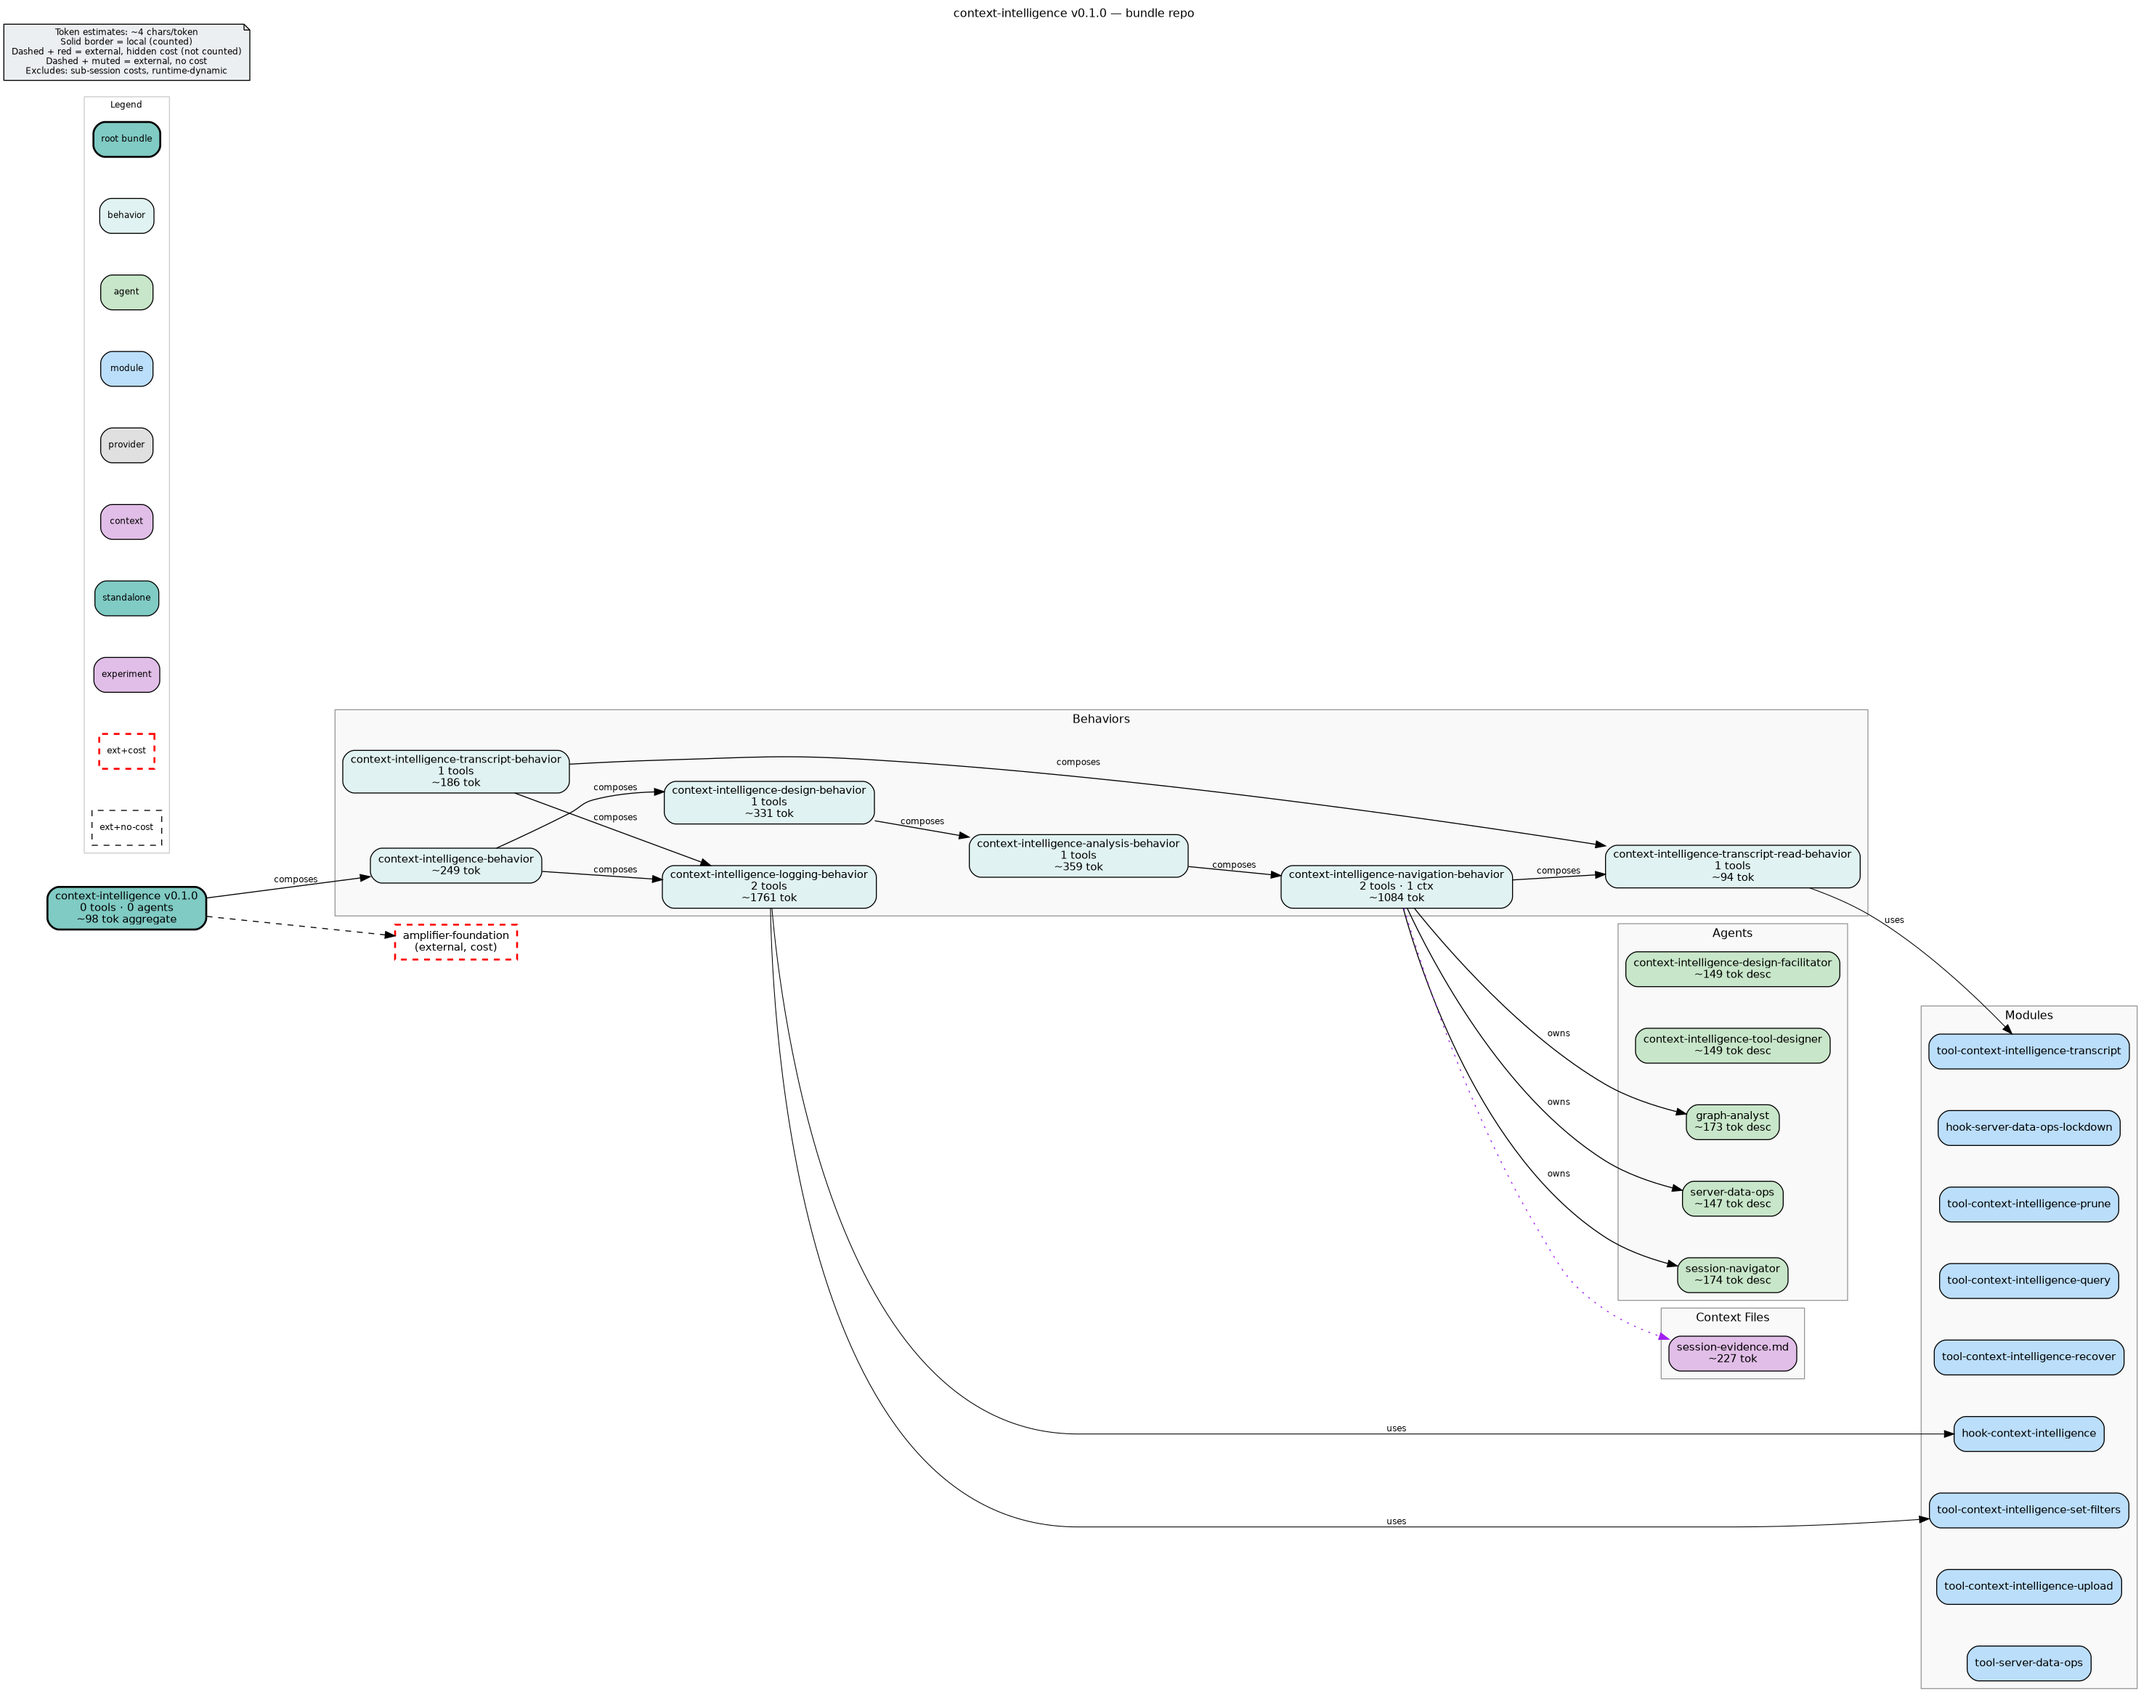
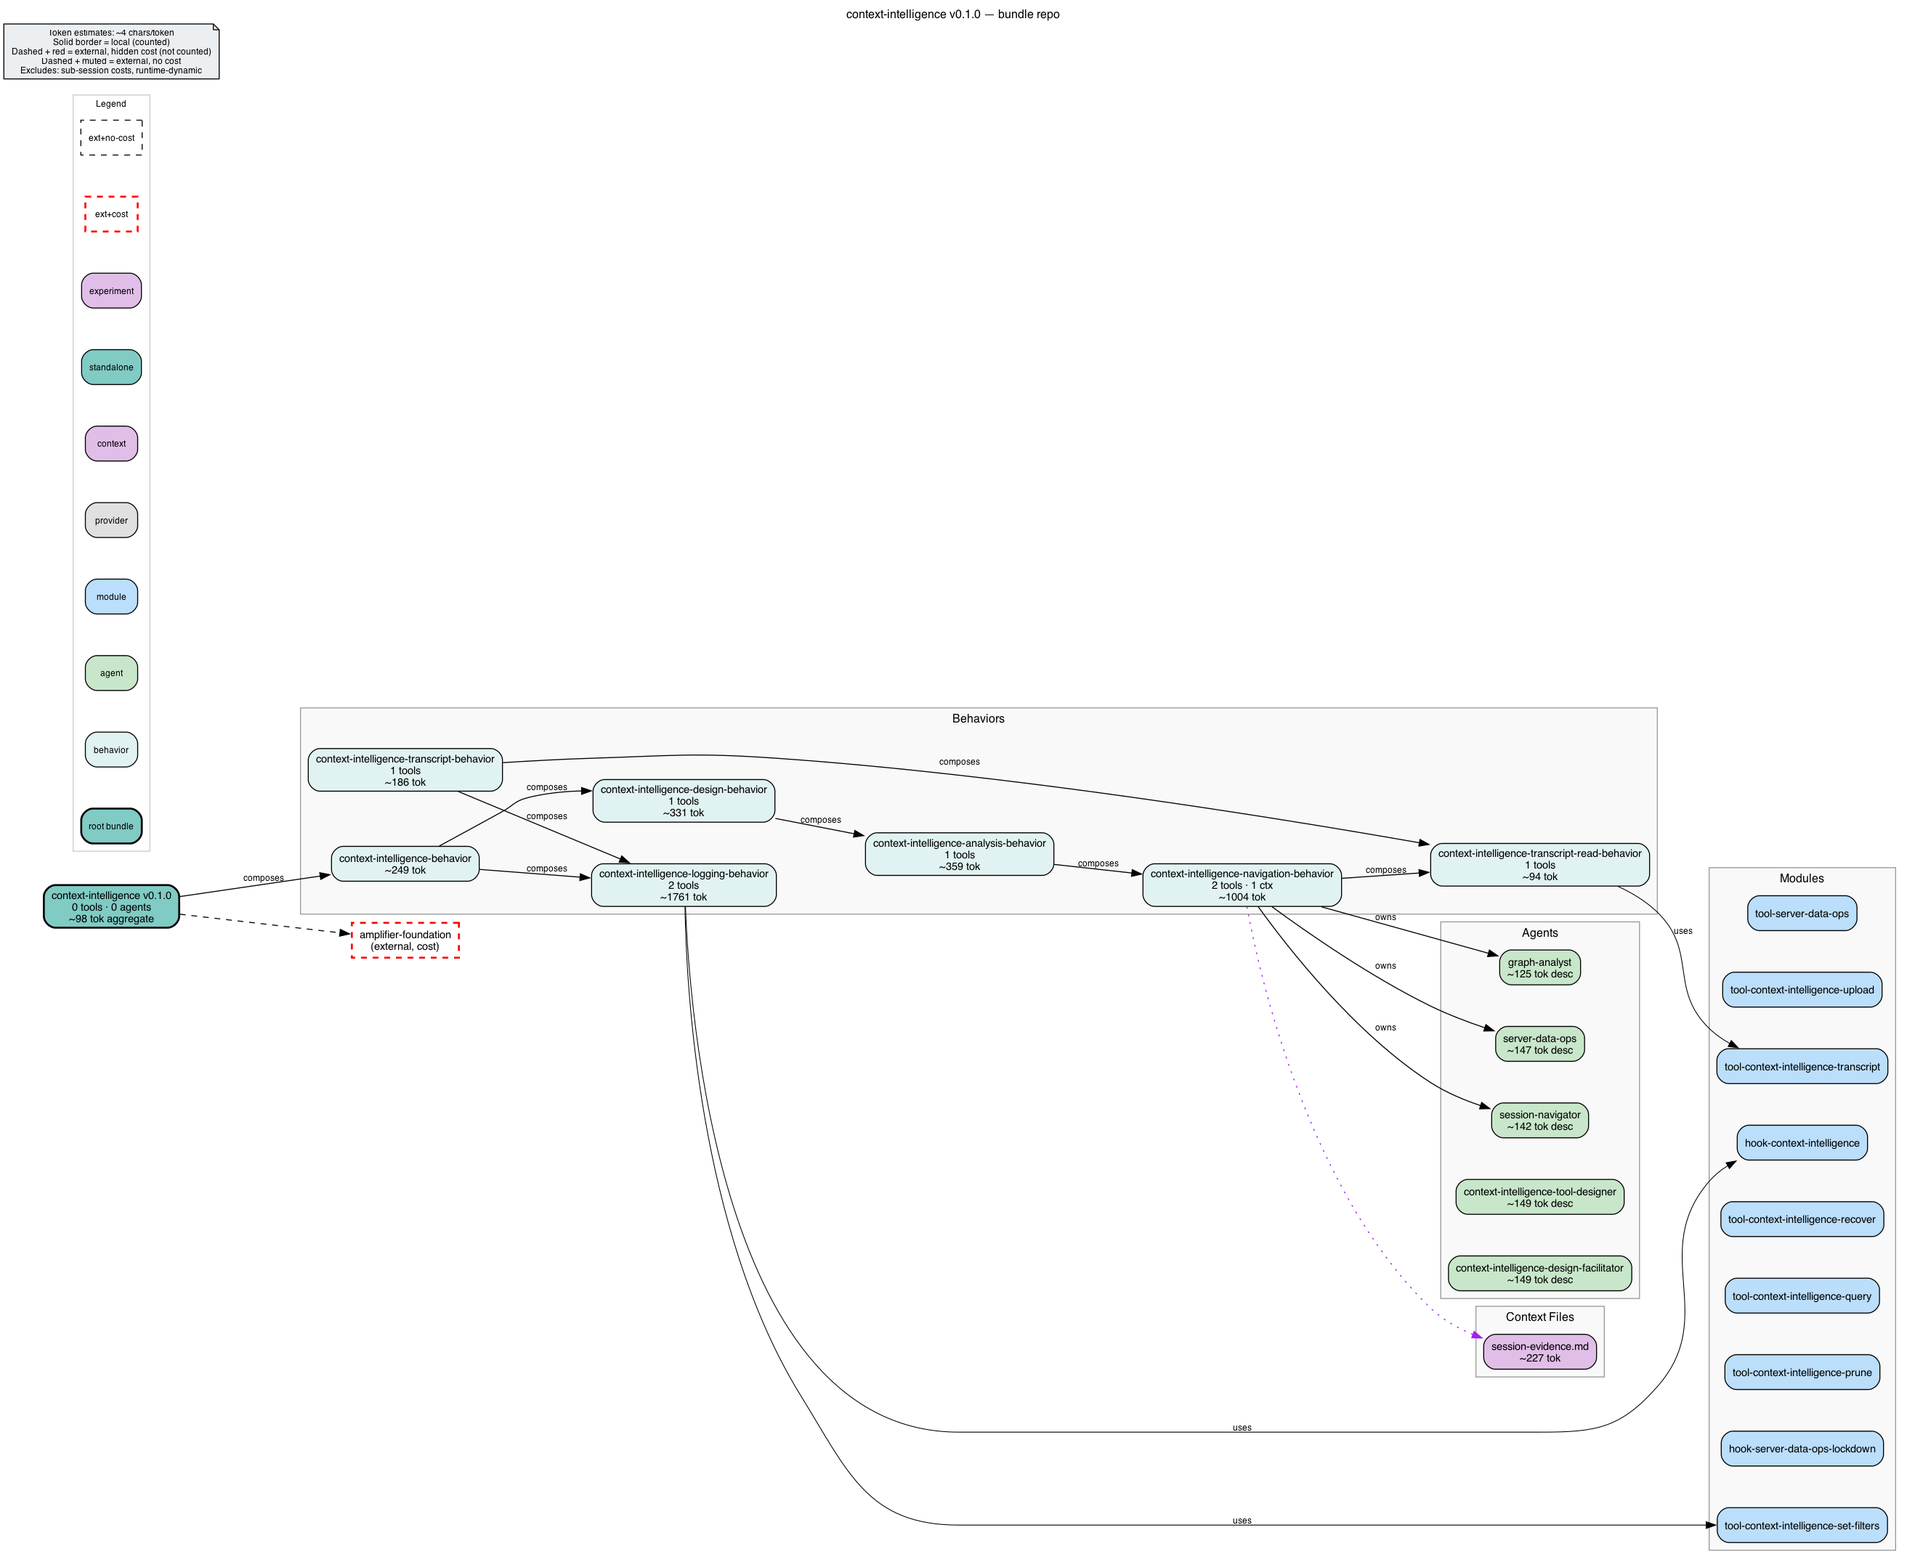
docs(routing): trim always-loaded agent and skill descriptions (6,028 → 3,985 chars) (#155)
* docs(skills): assess concise synopses with baseline routing intact

* docs(routing): budget graph catalogue without changing ownership or admin cues

* docs(routing): retain blob field trigger within synopsis budget

* docs(routing): remove duplicate navigator catalogue triggers

* docs(routing): keep explicit tool-call trigger in navigator synopsis

* docs(bundle): refresh diagrams for compliant trim source

* docs(skills): keep the trigger sentence the skill catalogue shows

Six skill synopses in the trim replaced the baseline's opening
"Use when ..." sentence with a noun-phrase summary. The skills catalogue
shows a model one condensed line per skill, and for these six skills the
baseline line is exactly that opening sentence. In a paired evaluation
(20 trials per arm) the specialist loaded derived-metrics in 19/20
baseline trials and 14/20 trimmed trials.

Restore the baseline opening sentence for those six skills. Their catalogue
lines are now byte-identical to baseline. Bodies and all other frontmatter
are unchanged. Navigation head: 3867 -> 3985 characters.

diff --git a/agents/graph-analyst.md b/agents/graph-analyst.md
@@ -6,11 +6,9 @@ bundle:
 meta:
   name: graph-analyst
   description: |
-    Use for Context Intelligence graph relationships, aggregates, delegation tracing, or ci-blob:// URI resolution. Native conversation uses session_transcript when mounted or session-navigator; local evidence goes to session-navigator without a graph health check. For graph work, check availability; use local fallback only when permitted, available, authorized, and sufficient.
+    Cypher, graph relationships, aggregates, indexed session/delegation tracing, or ci-blob:// field/URI resolution. Native conversation uses session_transcript when mounted or session-navigator; local evidence goes to session-navigator without a graph health check. For graph work, check availability; use local fallback only when permitted, available, authorized, and sufficient.
 
-    USE WHEN: Cypher; graph relationships or aggregates; graph-backed session/delegation traces; ci-blob fields.
-
-    DO NOT USE WHEN: only native conversation or local event, tool, error, or capture evidence is needed — use the matching transcript tool or session-navigator; source-code questions belong with source tools.
+    Not for native conversation or local events/tools/errors/captures (routes above), or source-code questions (source tools).
 
 model_role: [reasoning, general]
 

diff --git a/agents/session-navigator.md b/agents/session-navigator.md
@@ -8,9 +8,9 @@ meta:
   description: |
     Use for native transcript retrieval or workspace-scoped local event, tool, error, or capture questions. It owns local transcript replay and JSONL navigation — session discovery, event search, navigation — with bounded tools and bash/jq/grep extraction that never pulls a 100k+ token events.jsonl line into context. It never mounts or calls graph_query or blob_read.
 
-    USE WHEN: native transcript retrieval; local session discovery, events, tool calls, errors, or capture inspection. Direct callers and graph-analyst may both request this work; no graph health check is needed.
+    Direct callers and graph-analyst may both request this work; no graph health check is needed. Tool calls included.
 
-    DO NOT USE WHEN: graph relationships, aggregates, or ci-blob:// resolution are required — use graph-analyst for those.
+    Not for graph relationships, aggregates, or ci-blob:// resolution — use graph-analyst.
 
 model_role: general
 

diff --git a/skills/context-intelligence-derived-metrics/SKILL.md b/skills/context-intelligence-derived-metrics/SKILL.md
@@ -1,12 +1,6 @@
 ---
 name: context-intelligence-derived-metrics
-description: >
-  Use when a graph query returns structurally-identical rows hiding different
-  intent — many delegations all "none/conversation", look-alike sessions,
-  identical tool calls. Derives an INTERPRETIVE metric by joining a second graph
-  layer onto the blanket shape (flagship: transport × sub-session skill payload =
-  "flavour"). Complements graph-query (READ the graph) by making blanket reads
-  MEAN something.
+description: 'Use when a graph query returns structurally-identical rows hiding different intent — many delegations all "none/conversation", look-alike sessions, identical tool calls.'
 license: MIT
 metadata:
   version: "1.0.0"

diff --git a/skills/context-intelligence-gds/SKILL.md b/skills/context-intelligence-gds/SKILL.md
@@ -1,11 +1,6 @@
 ---
 name: context-intelligence-gds
-description: >
-  Use when about to write naive Cypher for a graph-topology question — pathfinding,
-  reachability, centrality/influence, community/clustering, structural similarity,
-  or similar event paths/trajectories (with/without time) — reach for Neo4j GDS or
-  APOC instead of hand-rolling traversals one hop at a time. WHEN/WHY layer;
-  graph-query's "Push Work to the Database" section is the HOW.
+description: 'GDS/APOC, not naive Cypher: paths/reachability, centrality/influence, community/clusters, structural similarity, (a)temporal trajectories; why; graph-query how.'
 license: MIT
 metadata:
   version: "1.2.0"

diff --git a/skills/context-intelligence-graph-query/SKILL.md b/skills/context-intelligence-graph-query/SKILL.md
@@ -1,11 +1,6 @@
 ---
 name: context-intelligence-graph-query
-description: >
-  Use when querying the context-intelligence property graph for session history,
-  tool call traces, LLM iteration analysis, execution scale metrics, agent
-  delegation trees, skill loading, and recipe orchestration. Covers all graph
-  layers, cross-layer SOURCED_FROM joins, SST navigation, blob handling, and
-  verified Cypher patterns.
+description: 'Query graph session history/tool traces/LLM iterations/execution scale/delegation trees/skill loading/recipe orchestration; layers/SOURCED_FROM/SST/blobs/verified Cypher.'
 license: MIT
 visibility:
   priority: 5

diff --git a/skills/context-intelligence-session-reconstruction/SKILL.md b/skills/context-intelligence-session-reconstruction/SKILL.md
@@ -1,7 +1,7 @@
 ---
 name: context-intelligence-session-reconstruction
 version: 1.1.0
-description: Use when local Amplifier session files are missing, broken, or incomplete — rebuilds events.jsonl, transcript.jsonl, and metadata.json from the context-intelligence graph server.
+description: 'Rebuild absent/broken/incomplete local events.jsonl/transcript.jsonl/metadata.json from graph server.'
 license: MIT
 # Fallback-path skill: reached deliberately, by name, when local session files are
 # already known to be missing or broken — never a candidate the model should pick

diff --git a/skills/context-intelligence-tool-design/SKILL.md b/skills/context-intelligence-tool-design/SKILL.md
@@ -1,7 +1,7 @@
 ---
 name: context-intelligence-tool-design
 version: 1.0.0
-description: Use when selecting a detection strategy and implementation primitive for a context-intelligence signal. Classifies signals as deterministic, probabilistic, llm-evaluated, or hybrid, and applies the cheapest-sufficient-capability principle.
+description: 'Use when selecting a detection strategy and implementation primitive for a context-intelligence signal.'
 user-invocable: false
 allowed-tools: read_file, glob, grep, delegate, load_skill, todo
 model_role: reasoning

diff --git a/skills/workflow-pattern-analysis/SKILL.md b/skills/workflow-pattern-analysis/SKILL.md
@@ -1,11 +1,7 @@
 ---
 name: workflow-pattern-analysis
 version: 1.0.0
-description: >
-  Use when asked how a workflow is failing, what separates a successful run from a failing
-  one, which steps are the most common failure points, or what patterns recur across
-  sessions — analyses failure/success patterns and signals across many runs using
-  context-intelligence session data.
+description: 'Cross-run: why failure, success/failure differences, common failing steps, recurring patterns.'
 user-invocable: true
 allowed-tools:
   - bash

diff --git a/skills/context-intelligence-evaluation-methodology/SKILL.md b/skills/context-intelligence-evaluation-methodology/SKILL.md
@@ -1,7 +1,7 @@
 ---
 name: context-intelligence-evaluation-methodology
 version: 1.0.0
-description: Use when deciding how to measure a context-intelligence tool signal. Covers metric design across quality/efficiency/efficacy axes, artifact-metric avoidance via precursor measurement, A/B and statistical-N discipline, and test-data fidelity.
+description: 'Use when deciding how to measure a context-intelligence tool signal.'
 user-invocable: false
 allowed-tools: read_file, glob, grep, delegate, load_skill, todo
 model_role: reasoning

diff --git a/skills/context-intelligence-server-data-ops/SKILL.md b/skills/context-intelligence-server-data-ops/SKILL.md
@@ -1,7 +1,7 @@
 ---
 name: context-intelligence-server-data-ops
 version: 1.0.0
-description: Exact step order, wording, and the "session details" block format for the delete flows the server-data-ops agent drives — delete the current session, clean up every session from the current working directory, find-then-delete a session by description, and delete a session someone else created.
+description: 'Exact delete order/wording/session-details: current, all cwd, find-description, other owner.'
 license: MIT
 ---
 

diff --git a/skills/context-intelligence-hill-climbing/SKILL.md b/skills/context-intelligence-hill-climbing/SKILL.md
@@ -1,6 +1,6 @@
 ---
 name: context-intelligence-hill-climbing
-description: 'Use when an investigation needs more than one step — track it in todo as a hill climb so progress and dead leads leave an audit trail. Governs HOW you track the climb, not how you query or extract — that stays in graph-query / session-navigation.'
+description: 'Use when an investigation needs more than one step — track it in todo as a hill climb so progress and dead leads leave an audit trail.'
 version: 0.1.0
 license: MIT
 ---

diff --git a/skills/context-intelligence-eval-design/SKILL.md b/skills/context-intelligence-eval-design/SKILL.md
@@ -1,7 +1,7 @@
 ---
 name: context-intelligence-eval-design
 version: 1.0.0
-description: Use when designing evaluation scenarios for a context-intelligence tool signal. Derives success criteria from domain-concepts.md and produces evaluation-scenarios.md entries plus DTU profile templates.
+description: 'Use when designing evaluation scenarios for a context-intelligence tool signal.'
 user-invocable: false
 allowed-tools: read_file, glob, grep, delegate, load_skill, todo
 model_role: reasoning
